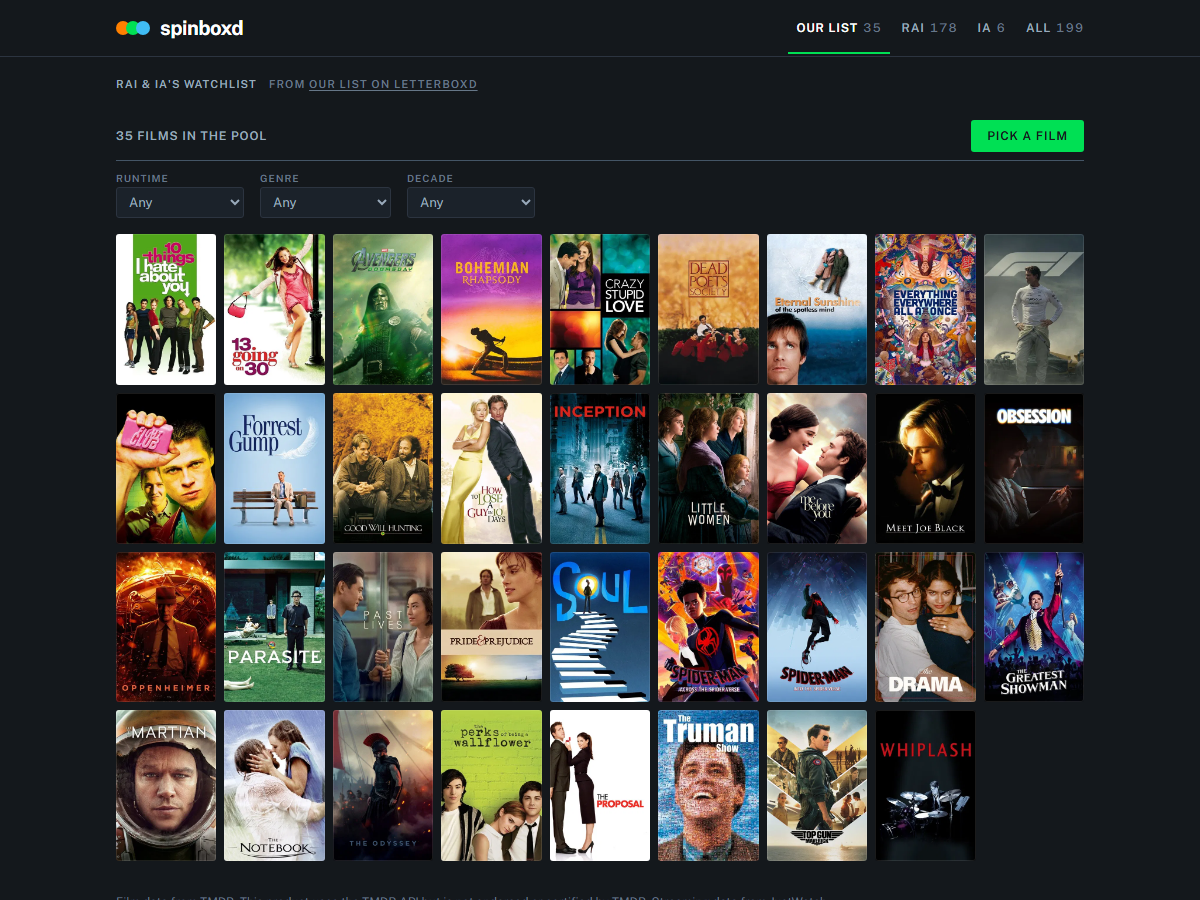
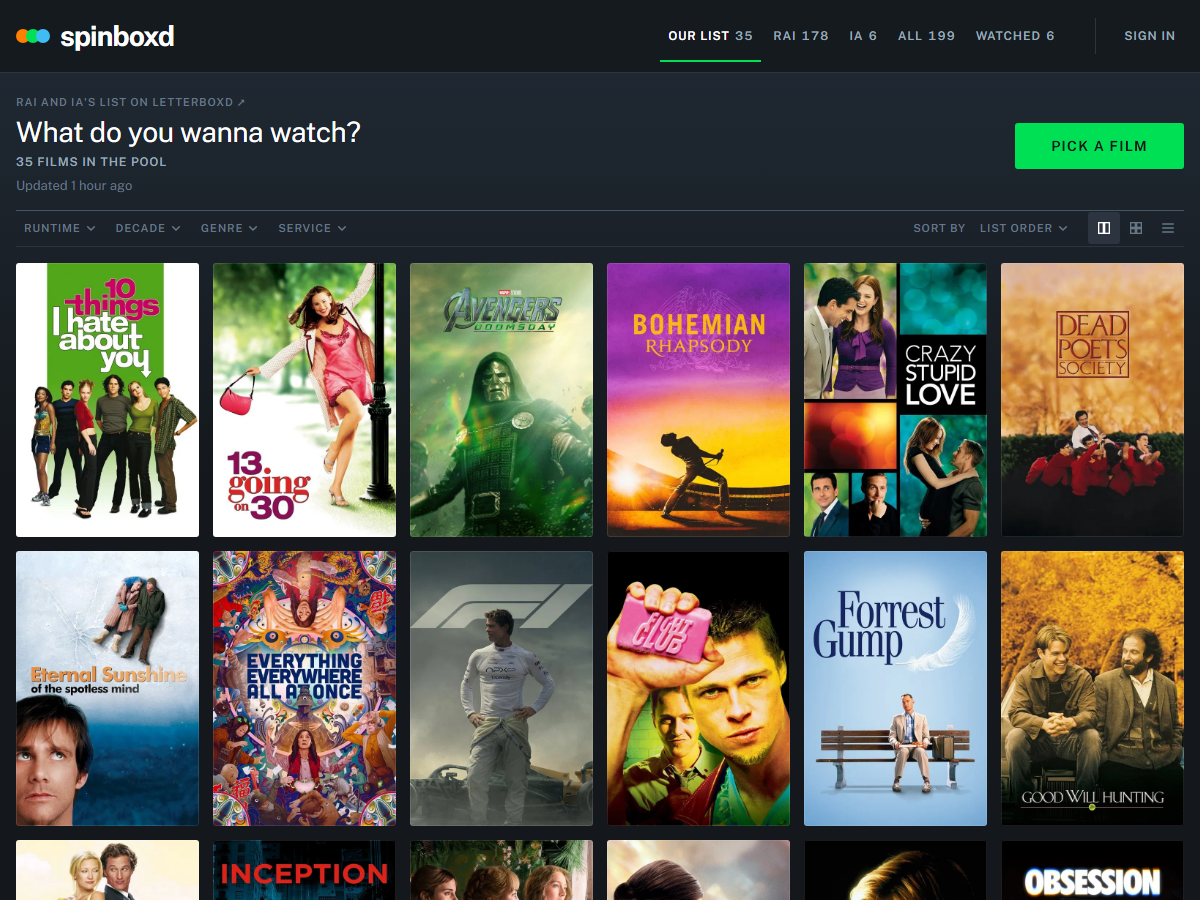
docs: describe features and firebase setup, refresh screenshot

diff --git a/README.md b/README.md
@@ -6,6 +6,13 @@ Rai & Ia's watchlist. The "what do you wanna watch" / "idk, ikaw bahala" machine
 
 Letterboxd has no API and blocks cloud IPs, so the scrape runs once a day in a GitHub Action instead of on every page load.
 
+## What it does
+
+- Tabs for each list, everything merged, and the films you've watched.
+- Filter by runtime, decade, genre or streaming service, sort the grid, and switch between large, small and list views. Filters also shape the pick.
+- Pick a film (or press Space): a poster reel spins and lands on a card with the synopsis, runtime, TMDB rating, where to stream it in PH, and a share link.
+- Signed in, either of us can skip a film for now or mark it watched, with an undo. Both phones see it right away. The Watched tab shows the day you watched each one, and you can change it.
+
 ## Run it
 
 ```
@@ -15,7 +22,7 @@ python -m venv .venv
 .venv\Scripts\python -m http.server -d site
 ```
 
-Then open http://localhost:8000. `pytest` runs the tests.
+Then open http://localhost:8000. `pytest` runs the scraper tests, `node --test "tests/js/*.test.mjs"` the site's.
 
 Posters, runtime, genres, synopsis, rating and PH streaming availability come from TMDB (streaming data is from JustWatch). Streaming data is refreshed on every run; the rest is cached. Set `TMDB_API_KEY` (a free v3 key or read token) before scraping. Without it the scraper only uses what's already in `data/tmdb_cache.json`, and films without a match show a text poster.
 
@@ -34,6 +41,14 @@ Edit `config.toml`. Any `/<user>/watchlist/` or `/<user>/list/<slug>/` URL works
 If a list fails to scrape, the last good data stays and the site says so. If GitHub's IPs get blocked, run the scraper from your own machine and push the JSON.
 
 GitHub pauses scheduled workflows after 60 days without repo activity. Re-enable it from the Actions tab.
+
+## Sign-in, skips and watched
+
+Skips and watched films live in Firestore (`skips` and `watched` collections, one doc per Letterboxd slug). Anyone can read them; only the two owners can write, after signing in with Google. The public web config is in `site/js/firebase-config.js`. The rules are what keep it locked down.
+
+`firestore.rules` has placeholder emails because the repo is public. Paste it into the Firebase console (Firestore, Rules), swap in the real addresses, and publish. Changing a watched date needs the `allow update` rule under `match /watched/{slug}`.
+
+Without Firebase the site still works read-only from the last cached state.
 
 ## Wrong poster
 
